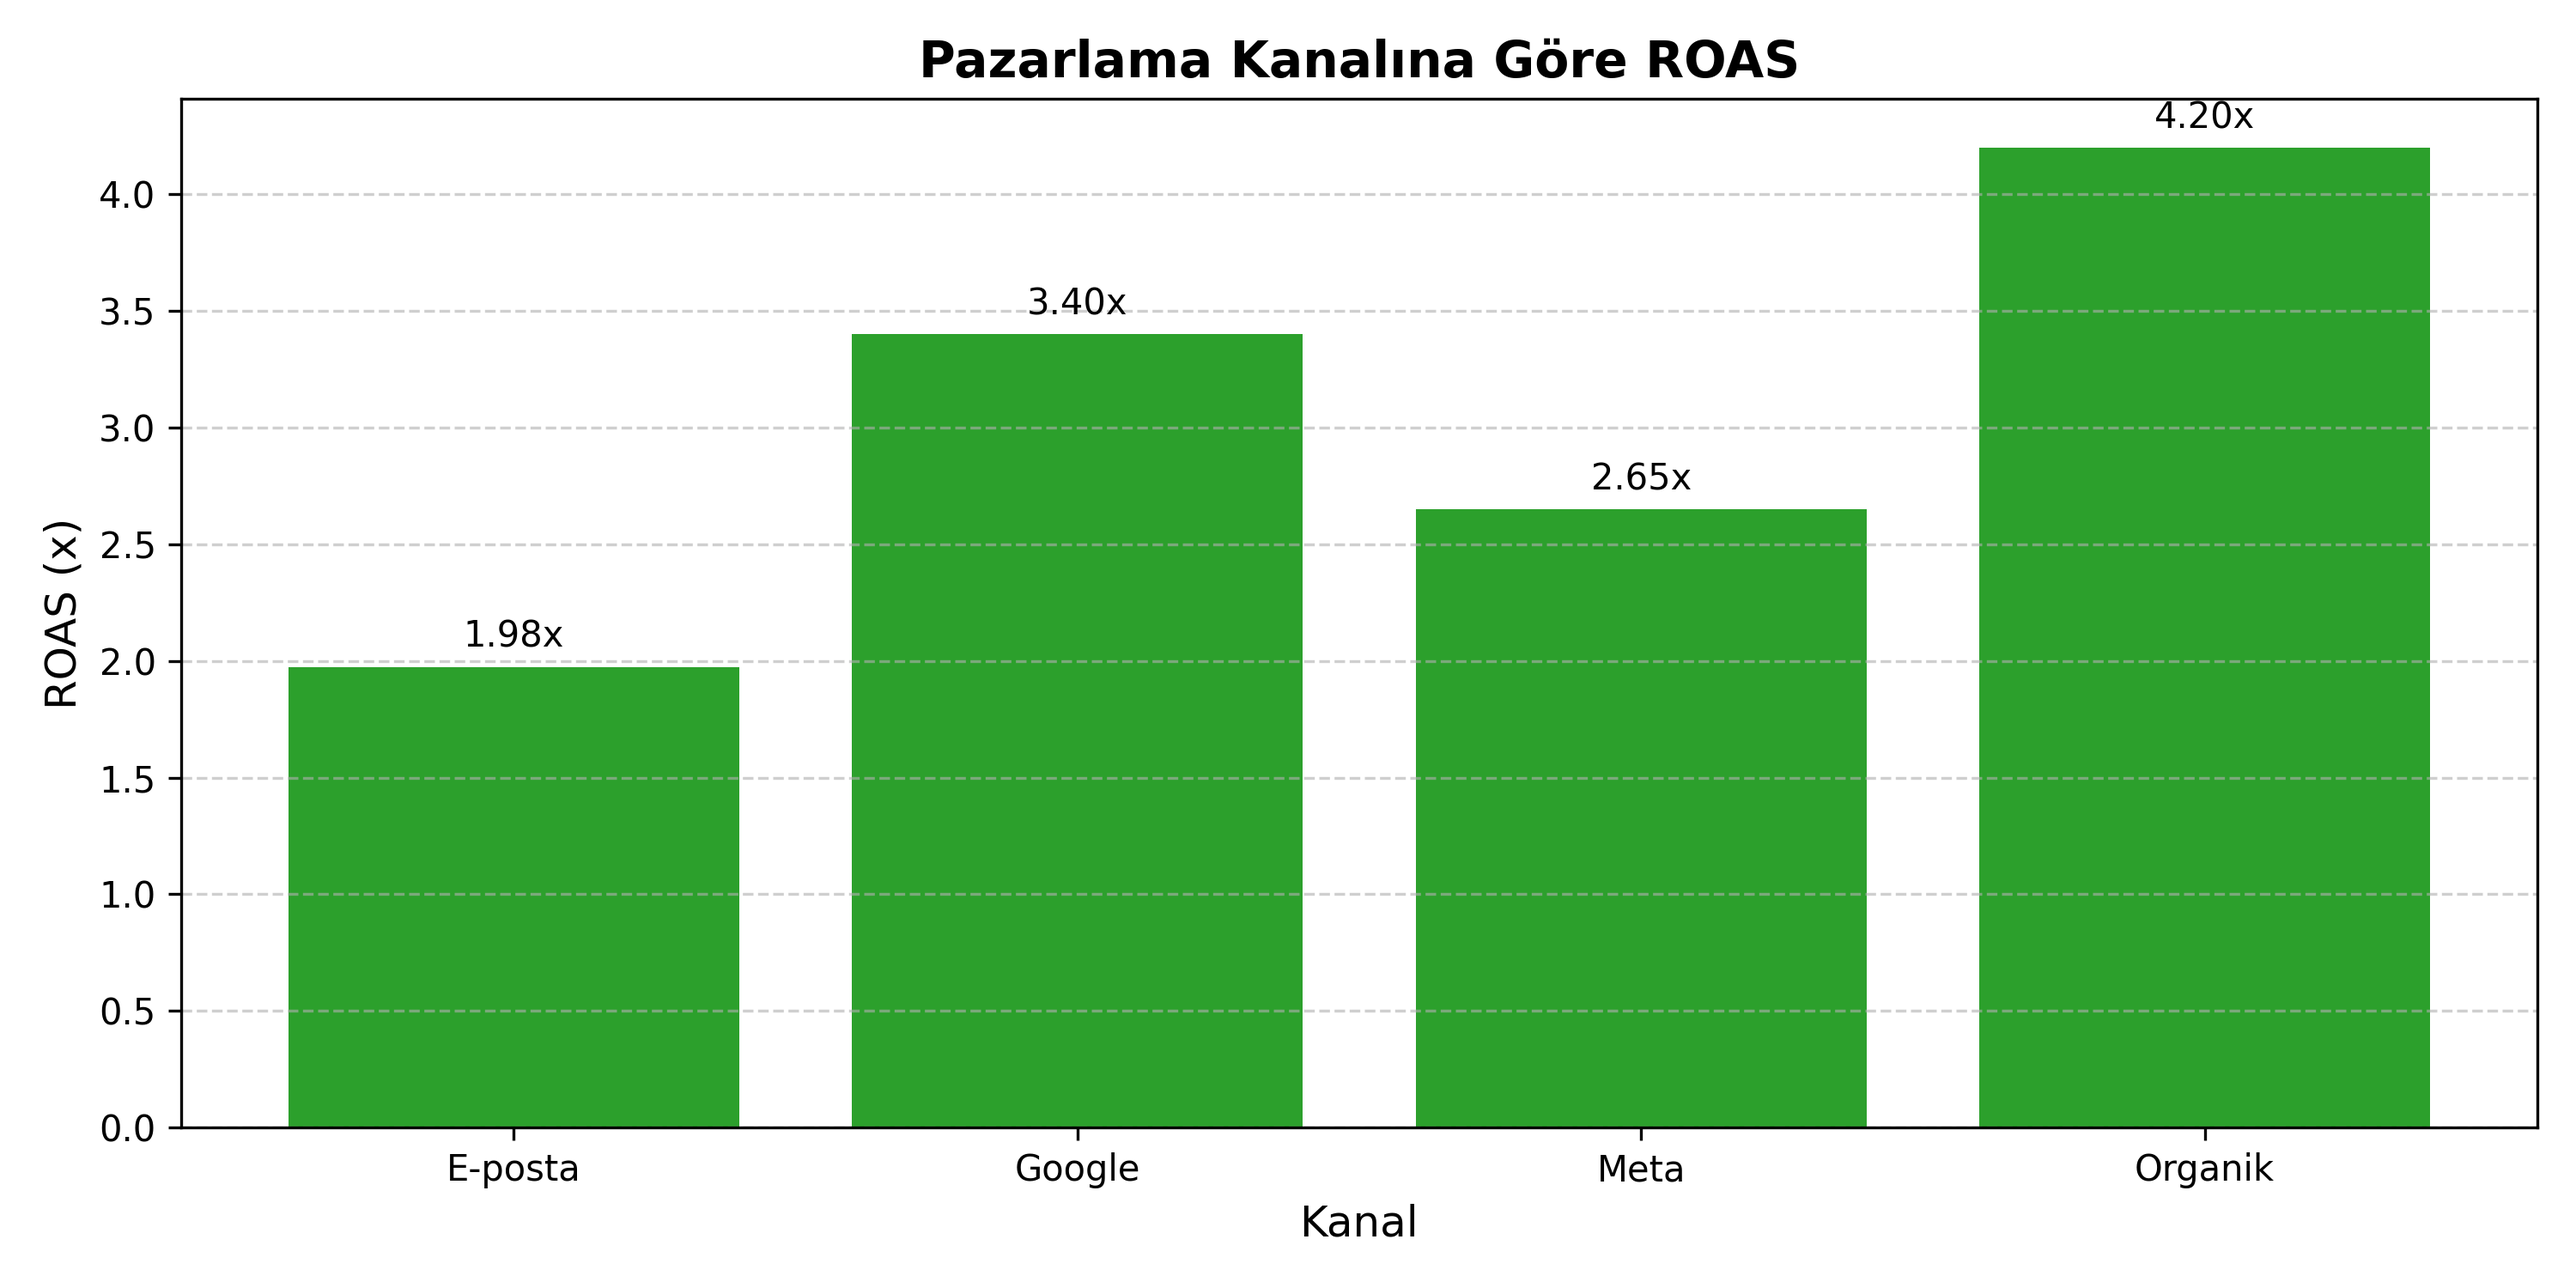
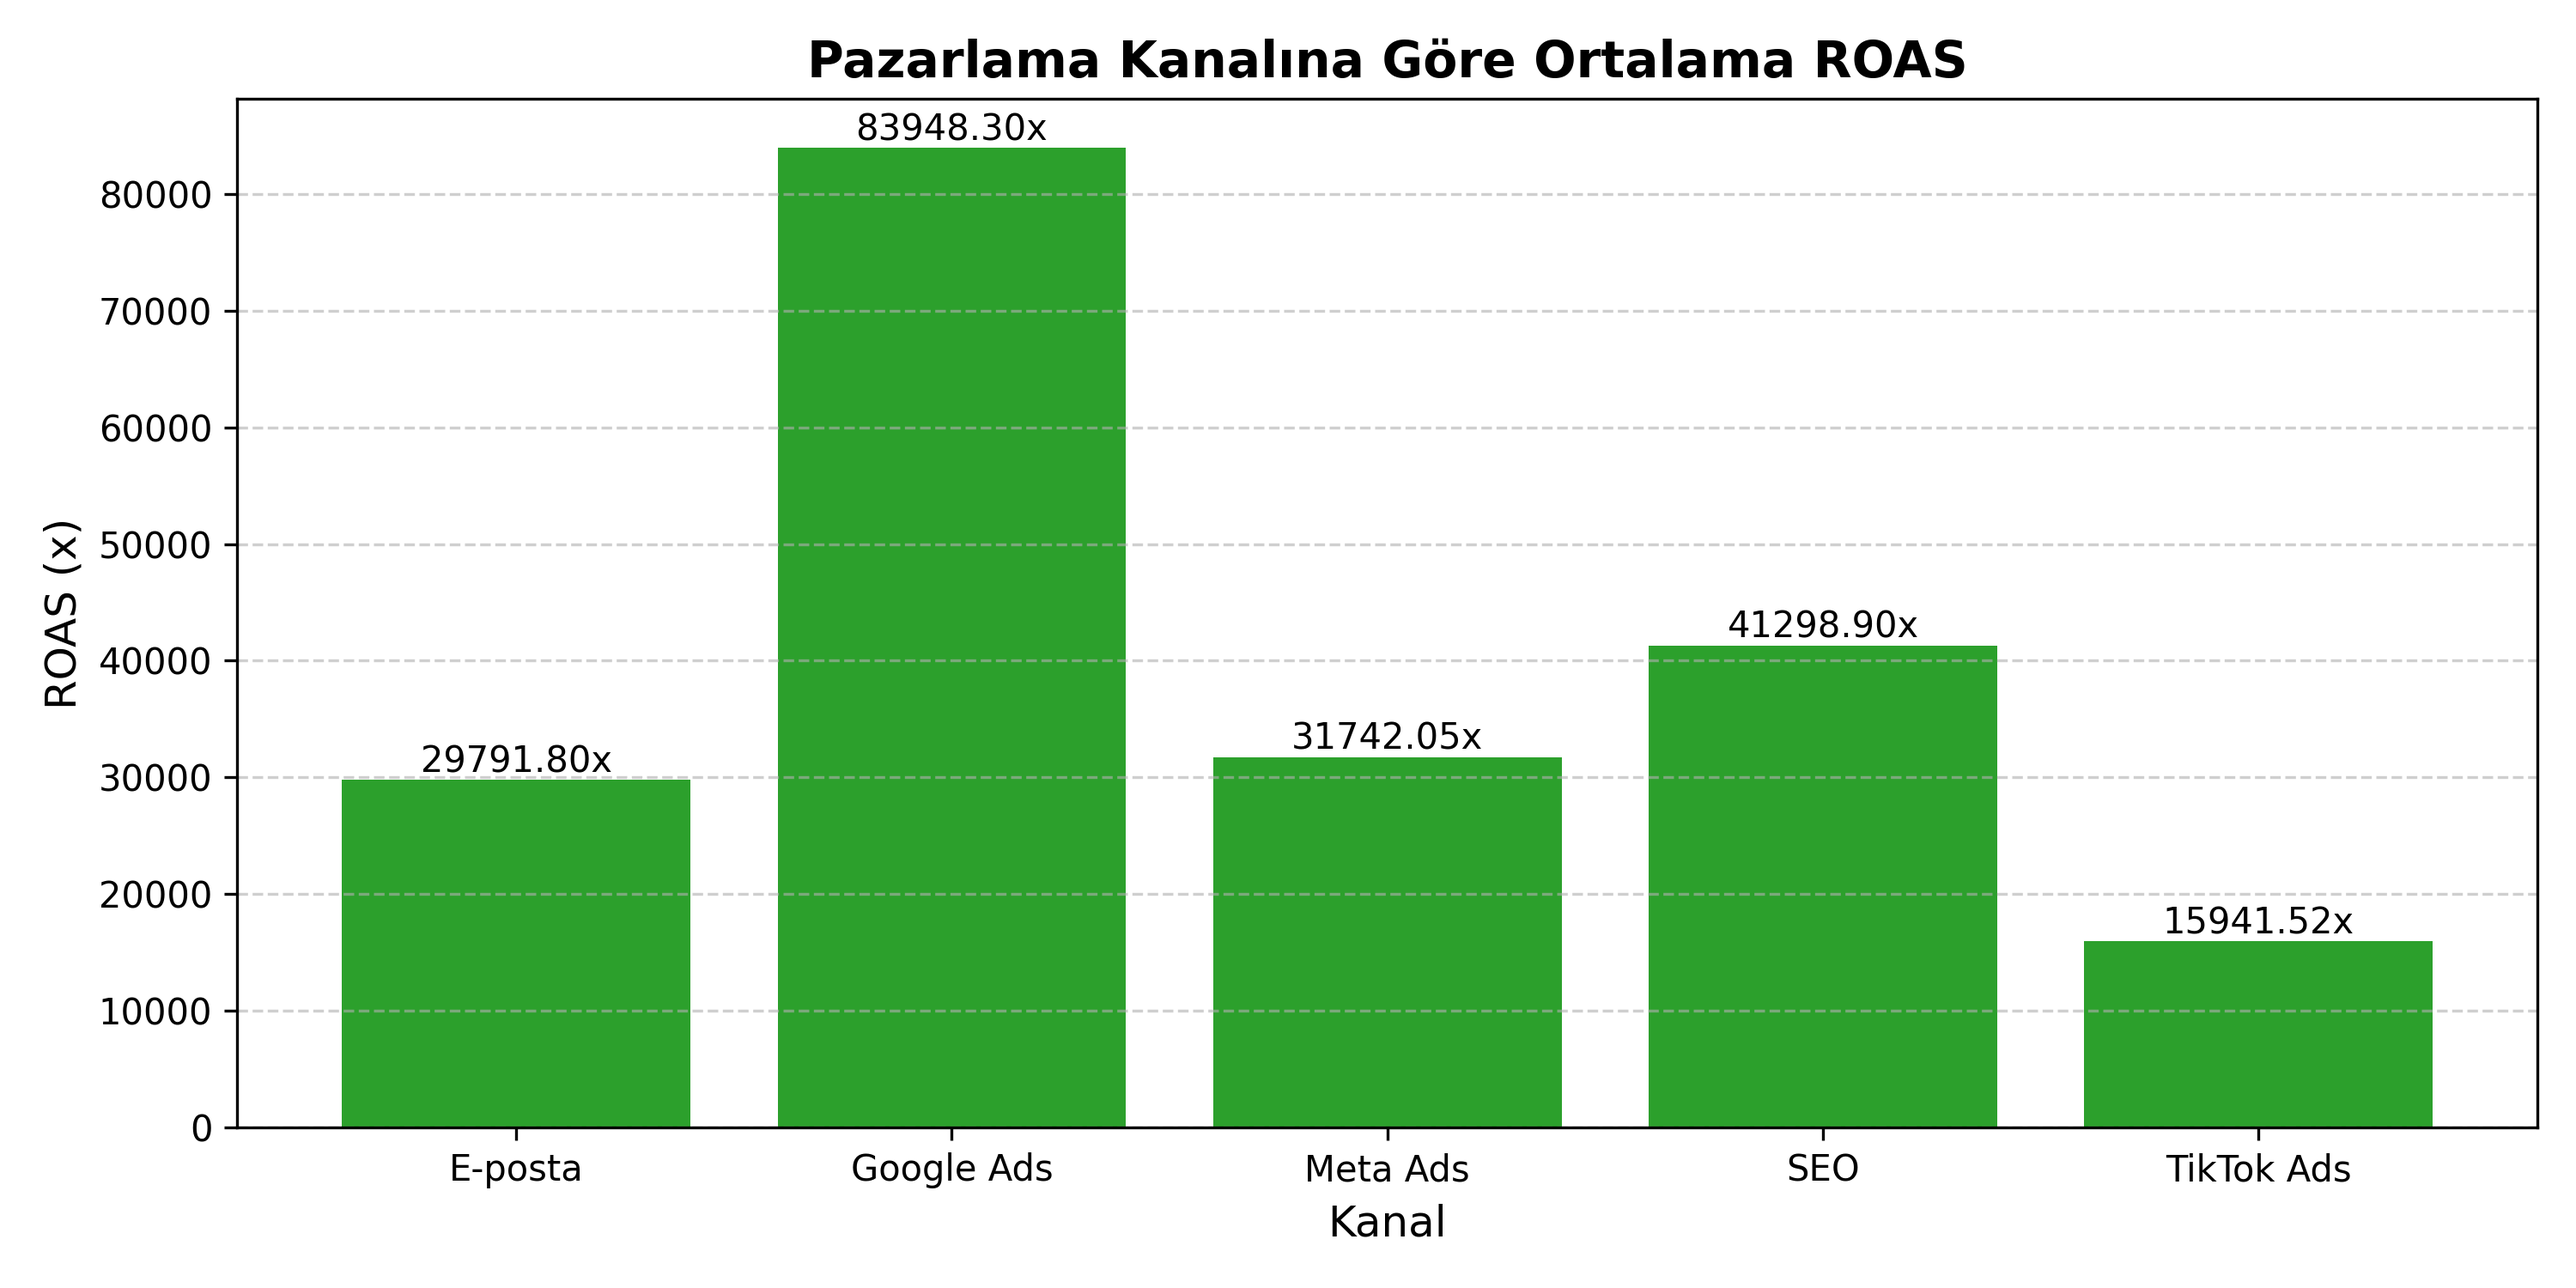
fix(fe): regenerate visuals with updated dataset column names

diff --git a/generate_visuals.py b/generate_visuals.py
@@ -5,23 +5,57 @@ import pandas as pd
 # visuals klasörünü oluştur
 os.makedirs("visuals", exist_ok=True)
 
-# Veriyi oku
+# 260 satırlık asıl veriyi oku
 df = pd.read_csv("data/kampanya-performans.csv")
 
-# 1. Grafik: Zaman Serisi (Haftalık Toplam Gelir)
+# Sütun isimlerini küçük harfe çevirip düzenle
+df.columns = df.columns.str.strip().str.lower()
+
+# Hafta veya Tarih sütununu bul
+week_col = next(
+    (
+        c
+        for c in df.columns
+        if any(k in c for k in ["hafta", "date", "tarih", "week"])
+    ),
+    df.columns[0],
+)
+revenue_col = next(
+    (
+        c
+        for c in df.columns
+        if any(k in c for k in ["gelir", "revenue", "harcama", "ciro"])
+    ),
+    df.columns[1],
+)
+channel_col = next(
+    (
+        c
+        for c in df.columns
+        if any(k in c for k in ["kanal", "channel", "medium"])
+    ),
+    df.columns[2],
+)
+roas_col = next(
+    (c for c in df.columns if "roas" in c),
+    df.columns[-1] if len(df.columns) > 3 else df.columns[1],
+)
+
+# 1. Grafik: Zaman Serisi (Toplam Gelir)
 plt.figure(figsize=(10, 5))
-df_weekly = df.groupby("hafta")["gelir"].sum().reset_index()
+df_weekly = df.groupby(week_col)[revenue_col].sum().reset_index()
 
 plt.plot(
-    df_weekly["hafta"],
-    df_weekly["gelir"],
+    df_weekly[week_col].astype(str),
+    df_weekly[revenue_col],
     marker="o",
     linewidth=2,
     color="#1f77b4",
 )
 plt.title("Haftalık Toplam Gelir Trendi", fontsize=14, fontweight="bold")
-plt.xlabel("Hafta", fontsize=12)
-plt.ylabel("Gelir (TL)", fontsize=12)
+plt.xlabel("Hafta / Tarih", fontsize=12)
+plt.ylabel("Toplam Gelir (TL)", fontsize=12)
+plt.xticks(rotation=45, ha="right")
 plt.grid(True, linestyle="--", alpha=0.6)
 plt.tight_layout()
 plt.savefig("visuals/gelir-zaman-serisi.png", dpi=300)
@@ -29,10 +63,10 @@ plt.close()
 
 # 2. Grafik: Kırılım (Kanala Göre ROAS)
 plt.figure(figsize=(10, 5))
-df_channel = df.groupby("kanal")["roas"].mean().reset_index()
+df_channel = df.groupby(channel_col)[roas_col].mean().reset_index()
 
-bars = plt.bar(df_channel["kanal"], df_channel["roas"], color="#2ca02c")
-plt.title("Pazarlama Kanalına Göre ROAS", fontsize=14, fontweight="bold")
+bars = plt.bar(df_channel[channel_col], df_channel[roas_col], color="#2ca02c")
+plt.title("Pazarlama Kanalına Göre Ortalama ROAS", fontsize=14, fontweight="bold")
 plt.xlabel("Kanal", fontsize=12)
 plt.ylabel("ROAS (x)", fontsize=12)
 
@@ -52,4 +86,4 @@ plt.tight_layout()
 plt.savefig("visuals/kanal-kirilim.png", dpi=300)
 plt.close()
 
-print("Grafikler visuals/ klasörüne kaydedildi!")
+print("Grafikler 260 satırlık asıl veriden başarıyla üretildi!")
